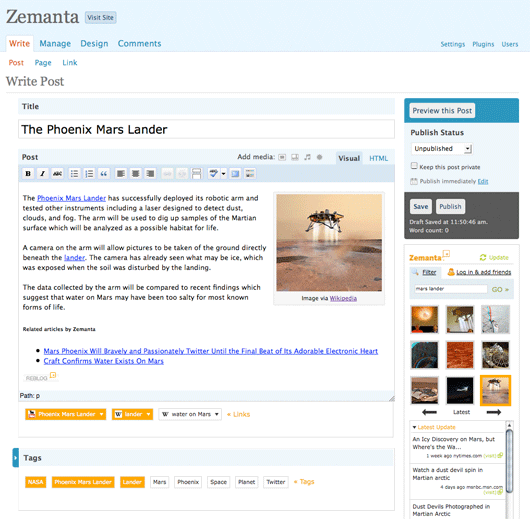
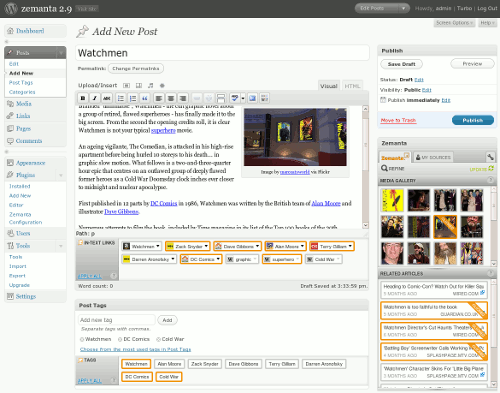
New release 0.6.4 - Fixed sidebar positioning problems for the new Zemanta widget
git-svn-id: https://plugins.svn.wordpress.org/zemanta/tags/0.6.4@193924 b8457f37-d9ea-0310-8a92-e5e31aec5664

diff --git a/zemanta.php b/zemanta.php
@@ -6,7 +6,7 @@ The copyrights to the software code in this file are licensed under the (revised
 Plugin Name: Zemanta
 Plugin URI: http://wordpress.org/extend/plugins/zemanta/
 Description: Contextual suggestions of links, pictures, related content and SEO tags that makes your blogging fun and efficient.
-Version: 0.6.3
+Version: 0.6.4
 Author: Zemanta Ltd.
 Author URI: http://www.zemanta.com/
 */
@@ -369,7 +369,7 @@ function zem_wp_head() {
 	$api_key = zem_api_key();
 
 	print '<script type="text/javascript">window.ZemantaGetAPIKey = function () { return "' . $api_key . '"; }</script>';
-	print '<script type="text/javascript">window.ZemantaPluginVersion = function () { return "0.6.3"; }</script>';
+	print '<script type="text/javascript">window.ZemantaPluginVersion = function () { return "0.6.4"; }</script>';
 	print '<script id="zemanta-loader" type="text/javascript" src="http://fstatic.zemanta.com/plugins/wordpress/2.x/loader.js"></script>';
 };
 
@@ -472,7 +472,9 @@ function zem_wp_admin() {
         <p><?php _e('Enable Zemanta image uploader:', 'zemanta' ); ?>
 			<input id="zemsettings_uploader_checkbox" type="checkbox" name="<?php echo $uploader_field; ?>" <?php if ($uploader_val) echo "checked=\"checked\""; ?> onclick="zemsettings_togglepanel('zemsettings_pathinfo', !document.getElementById('zemsettings_advanced_checkbox').checked); return zemsettings_togglepanel('zemsettings_uploader', this.checked);" <?php if ($wp_version <= '2.5') echo 'disabled="disabled" '; ?>/>
 		</p>
-		<p class="updated"><?php if ($wp_version <= '2.5') _e('Zemanta image uploader is only supported with Wordpress 2.5 or above.', 'zemanta'); ?></p>
+		<?php if ($wp_version <= '2.5') { ?>
+		<p class="updated"><? _e('Zemanta image uploader is only supported with Wordpress 2.6 or above.', 'zemanta'); ?></p>
+		<? } ?>
 		<div id="zemsettings_uploader" style="display: none;">
 			<p><?php _e('Allow Zemanta uploader to upload any image referenced by your post to your blog:', 'zemanta' ); ?>
 				<input id="zemsettings_promisc_checkbox" type="checkbox" name="<?php echo $uploader_promisc_field; ?>" <?php if ($uploader_promisc_val) echo "checked=\"checked\""; ?> onclick="return zemsettings_togglepanel('zemsettings_disclaim', (this.checked&&document.getElementById('zemsettings_uploader_checkbox').checked));" />
@@ -501,7 +503,7 @@ function zem_wp_admin() {
 			</div>
 		</div>
 		<p class="submit">
-			<input type="submit" name="Submit" value="<?php _e('Update Options', 'zemanta' ) ?>" />
+			<input type="submit" name="Submit" value="<?php _e('Save changes', 'zemanta' ) ?>" />
 		</p>
 	</form>
 	<script type="text/javascript">
@@ -527,11 +529,15 @@ if ( !zem_check_dependencies() ) {
 }
 
 // Insert Zemanta to the top-right position if it was not positioned previously
-function zem_check_zemanta_position($metabox_positions) { //Checks if zemanta-sidebar has position
+function zem_check_zemanta_position($metabox_positions) { //Checks if zemanta-wordpress has position
 	if (!$metabox_positions) return false;
 	foreach ($metabox_positions as $position) {
 		foreach (split(',',$position) as $p) {
+			// if old zemanta-sidebar is found, set_default_position will replace it
 			if ($p == "zemanta-sidebar") {
+				return false;
+			}
+			if ($p == "zemanta-wordpress") {
 				return true;
 			}
 		}
@@ -552,15 +558,24 @@ function zem_set_default_zemanta_post_position() {
 		if ($metabox_positions) {
 			if (array_key_exists('side', $metabox_positions)) {
 				if ($metabox_positions['side']) {
-					$metabox_positions['side'] = 'zemanta-sidebar,' . $metabox_positions['side'];
+					// if found, replace old zemanta-sidebar with zemanta-wordpress
+					if (strpos($metabox_positions['side'], 'zemanta-sidebar') === false) {
+						$metabox_positions['side'] = 'zemanta-wordpress,' . $metabox_positions['side'];
+					} else {
+						if (strpos($metabox_positions['side'], 'zemanta-wordpress') === false) {
+							$metabox_positions['side'] = str_replace('zemanta-sidebar', 'zemanta-wordpress', $metabox_positions['side']);
+						} else {
+							$metabox_positions['side'] = str_replace('zemanta-sidebar', '', $metabox_positions['side']);
+						}
+					}
 				} else {
-					$metabox_positions['side'] = 'zemanta-sidebar';
+					$metabox_positions['side'] = 'zemanta-wordpress';
 				}
 			} else {
-				$metabox_positions['side'] = 'zemanta-sidebar';
+				$metabox_positions['side'] = 'zemanta-wordpress';
 			}
 		} else {
-			$metabox_positions = array('side'=>'zemanta-sidebar');
+			$metabox_positions = array('side'=>'zemanta-wordpress');
 		}
 		update_user_option( $current_user->ID, "meta-box-order_post", $metabox_positions );
 	}
@@ -574,15 +589,24 @@ function zem_set_default_zemanta_page_position() {
 		if ($metabox_positions) {
 			if (array_key_exists('side', $metabox_positions)) {
 				if ($metabox_positions['side']) {
-					$metabox_positions['side'] = 'zemanta-sidebar,' . $metabox_positions['side'];
+					// if found, replace old zemanta-sidebar with zemanta-wordpress
+					if (strpos($metabox_positions['side'], 'zemanta-sidebar') === false) {
+						$metabox_positions['side'] = 'zemanta-wordpress,' . $metabox_positions['side'];
+					} else {
+						if (strpos($metabox_positions['side'], 'zemanta-wordpress') === false) {
+							$metabox_positions['side'] = str_replace('zemanta-sidebar', 'zemanta-wordpress', $metabox_positions['side']);
+						} else {
+							$metabox_positions['side'] = str_replace('zemanta-sidebar', '', $metabox_positions['side']);
+						}
+					}
 				} else {
-					$metabox_positions['side'] = 'zemanta-sidebar';
+					$metabox_positions['side'] = 'zemanta-wordpress';
 				}
 			} else {
-				$metabox_positions['side'] = 'zemanta-sidebar';
+				$metabox_positions['side'] = 'zemanta-wordpress';
 			}
 		} else {
-			$metabox_positions = array('side'=>'zemanta-sidebar');
+			$metabox_positions = array('side'=>'zemanta-wordpress');
 		}
 		update_user_option( $current_user->ID, "meta-box-order_page", $metabox_positions );
 	}
@@ -591,9 +615,9 @@ function zem_set_default_zemanta_page_position() {
 // Custom Meta Box
 function zem_add_custom_box() {
   if( function_exists( 'add_meta_box' )) {
-    add_meta_box( 'zemanta-sidebar', __( 'Zemanta', 'myplugin_textdomain' ), 
+    add_meta_box( 'zemanta-wordpress', __( 'Zemanta', 'myplugin_textdomain' ), 
                 'zem_inner_custom_box', 'post', 'advanced' );
-    add_meta_box( 'zemanta-sidebar', __( 'Zemanta', 'myplugin_textdomain' ), 
+    add_meta_box( 'zemanta-wordpress', __( 'Zemanta', 'myplugin_textdomain' ), 
                 'zem_inner_custom_box', 'page', 'advanced' );
    }
 }
@@ -601,7 +625,7 @@ function zem_add_custom_box() {
 /* Zemanta on the custom post/page section */
 function zem_inner_custom_box() {
   // Use nonce for verification
-  echo '<div id="zemanta-control" class="zemanta"></div><div id="zemanta-message" class="zemanta">Loading Zemanta...</div><div id="zemanta-filter" class="zemanta"></div><div id="zemanta-gallery" class="zemanta"></div><div id="zemanta-articles" class="zemanta"></div><div id="zemanta-preferences" class="zemanta"></div>';
+  echo '<div id="zemanta-sidebar"></div>';
 }
 
 // Check for image downloader errors
